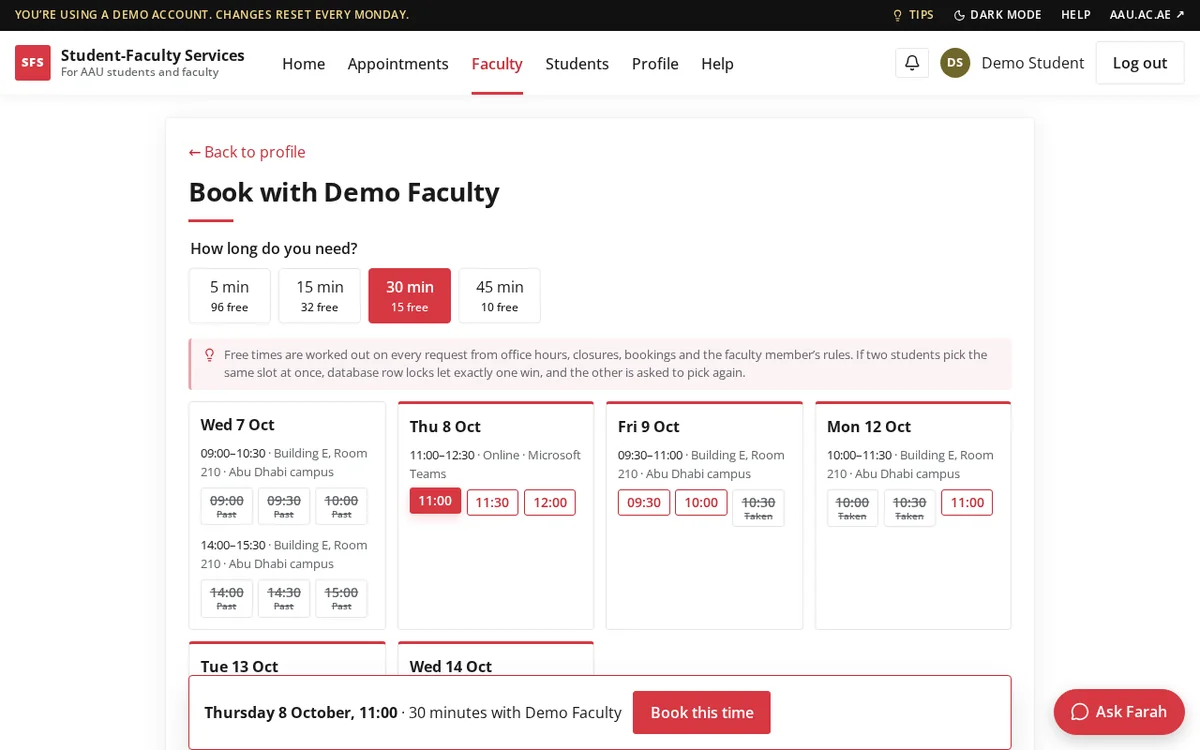
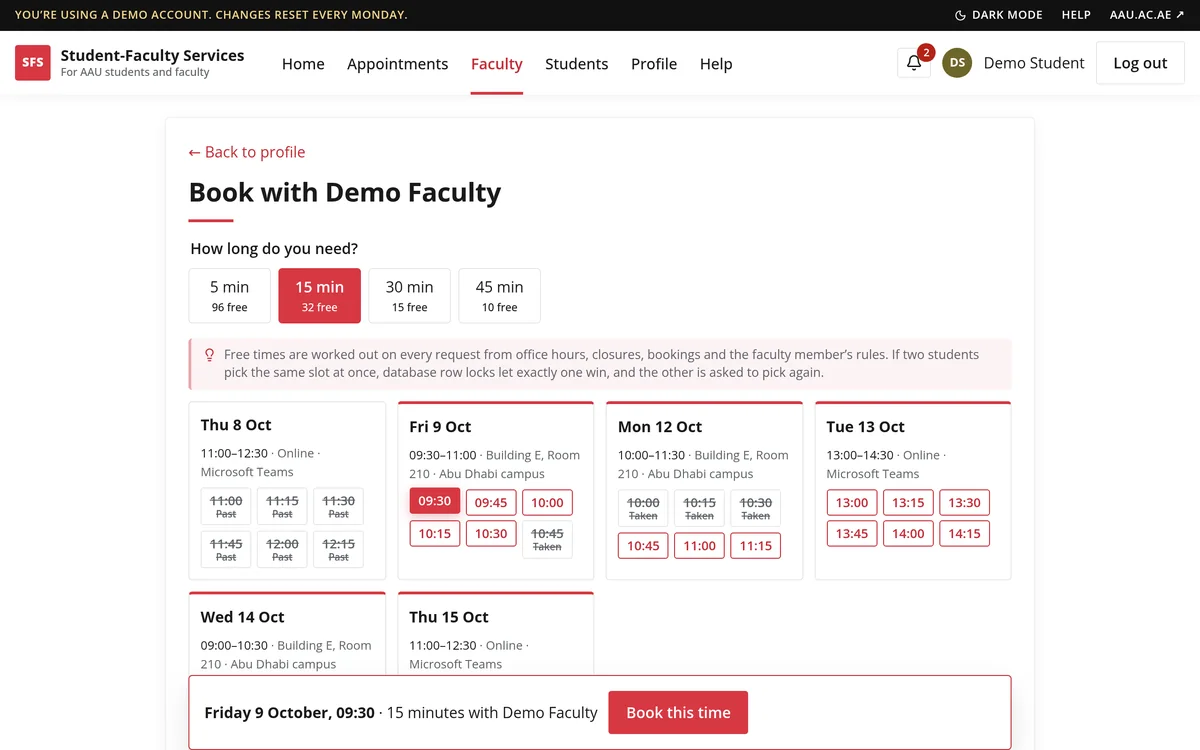
Update SFS v2 screenshots and text now that the chatbot is hidden
- Recapture the booking and office-hours screenshots from the live demo
  (no floating chatbot button; a time is selected but not booked)
- Remove "and a chatbot" from the v2 description
- Version the image URLs so browsers fetch the new files

diff --git a/index.html b/index.html
@@ -179,12 +179,12 @@
                     <div class="feature-media">
                         <figure>
                             <button class="shot" type="button" aria-label="Enlarge screenshot: The booking page: session lengths with free-slot counts and a week of office-hour times to pick from">
-                                <img src="assets/desktop-v2-booking.webp" width="1200" height="750" loading="lazy" decoding="async" alt="The booking page: session lengths with free-slot counts and a week of office-hour times to pick from">
+                                <img src="assets/desktop-v2-booking.webp?v=20261009f" width="1200" height="750" loading="lazy" decoding="async" alt="The booking page: session lengths with free-slot counts and a week of office-hour times to pick from">
                             </button>
                         </figure>
                         <figure>
                             <button class="shot" type="button" aria-label="Enlarge screenshot: The faculty office-hours page, listing weekly blocks in a campus room or online with edit and remove buttons">
-                                <img src="assets/desktop-v2-office-hours.webp" width="1200" height="750" loading="lazy" decoding="async" alt="The faculty office-hours page, listing weekly blocks in a campus room or online with edit and remove buttons">
+                                <img src="assets/desktop-v2-office-hours.webp?v=20261009f" width="1200" height="750" loading="lazy" decoding="async" alt="The faculty office-hours page, listing weekly blocks in a campus room or online with edit and remove buttons">
                             </button>
                         </figure>
                     </div>
@@ -201,7 +201,7 @@
                             </div>
                         </div>
                         <p class="project-subtitle">Full-Stack Web App · Capstone Rewrite</p>
-                        <p class="project-desc">A full rewrite of my senior capstone that runs on free PHP hosting. Students book 5 to 45 minute slots in faculty office hours; faculty set their hours, closures, and booking rules, and approve sessions. It includes undo, reminders, ratings, a waitlist, and a chatbot. React 19 and TypeScript front end, a framework-free PHP 8.4 API on MariaDB, deployed by GitHub Actions once the tests pass.</p>
+                        <p class="project-desc">A full rewrite of my senior capstone that runs on free PHP hosting. Students book 5 to 45 minute slots in faculty office hours; faculty set their hours, closures, and booking rules, and approve sessions. It includes undo, reminders, ratings, and a waitlist. React 19 and TypeScript front end, a framework-free PHP 8.4 API on MariaDB, deployed by GitHub Actions once the tests pass.</p>
                         <ul class="project-metrics">
                             <li><strong data-count="400" data-suffix="+">400+</strong><span>PHPUnit, Vitest, and Playwright tests</span></li>
                             <li><strong data-count="46">46</strong><span>REST API endpoints, no framework</span></li>
